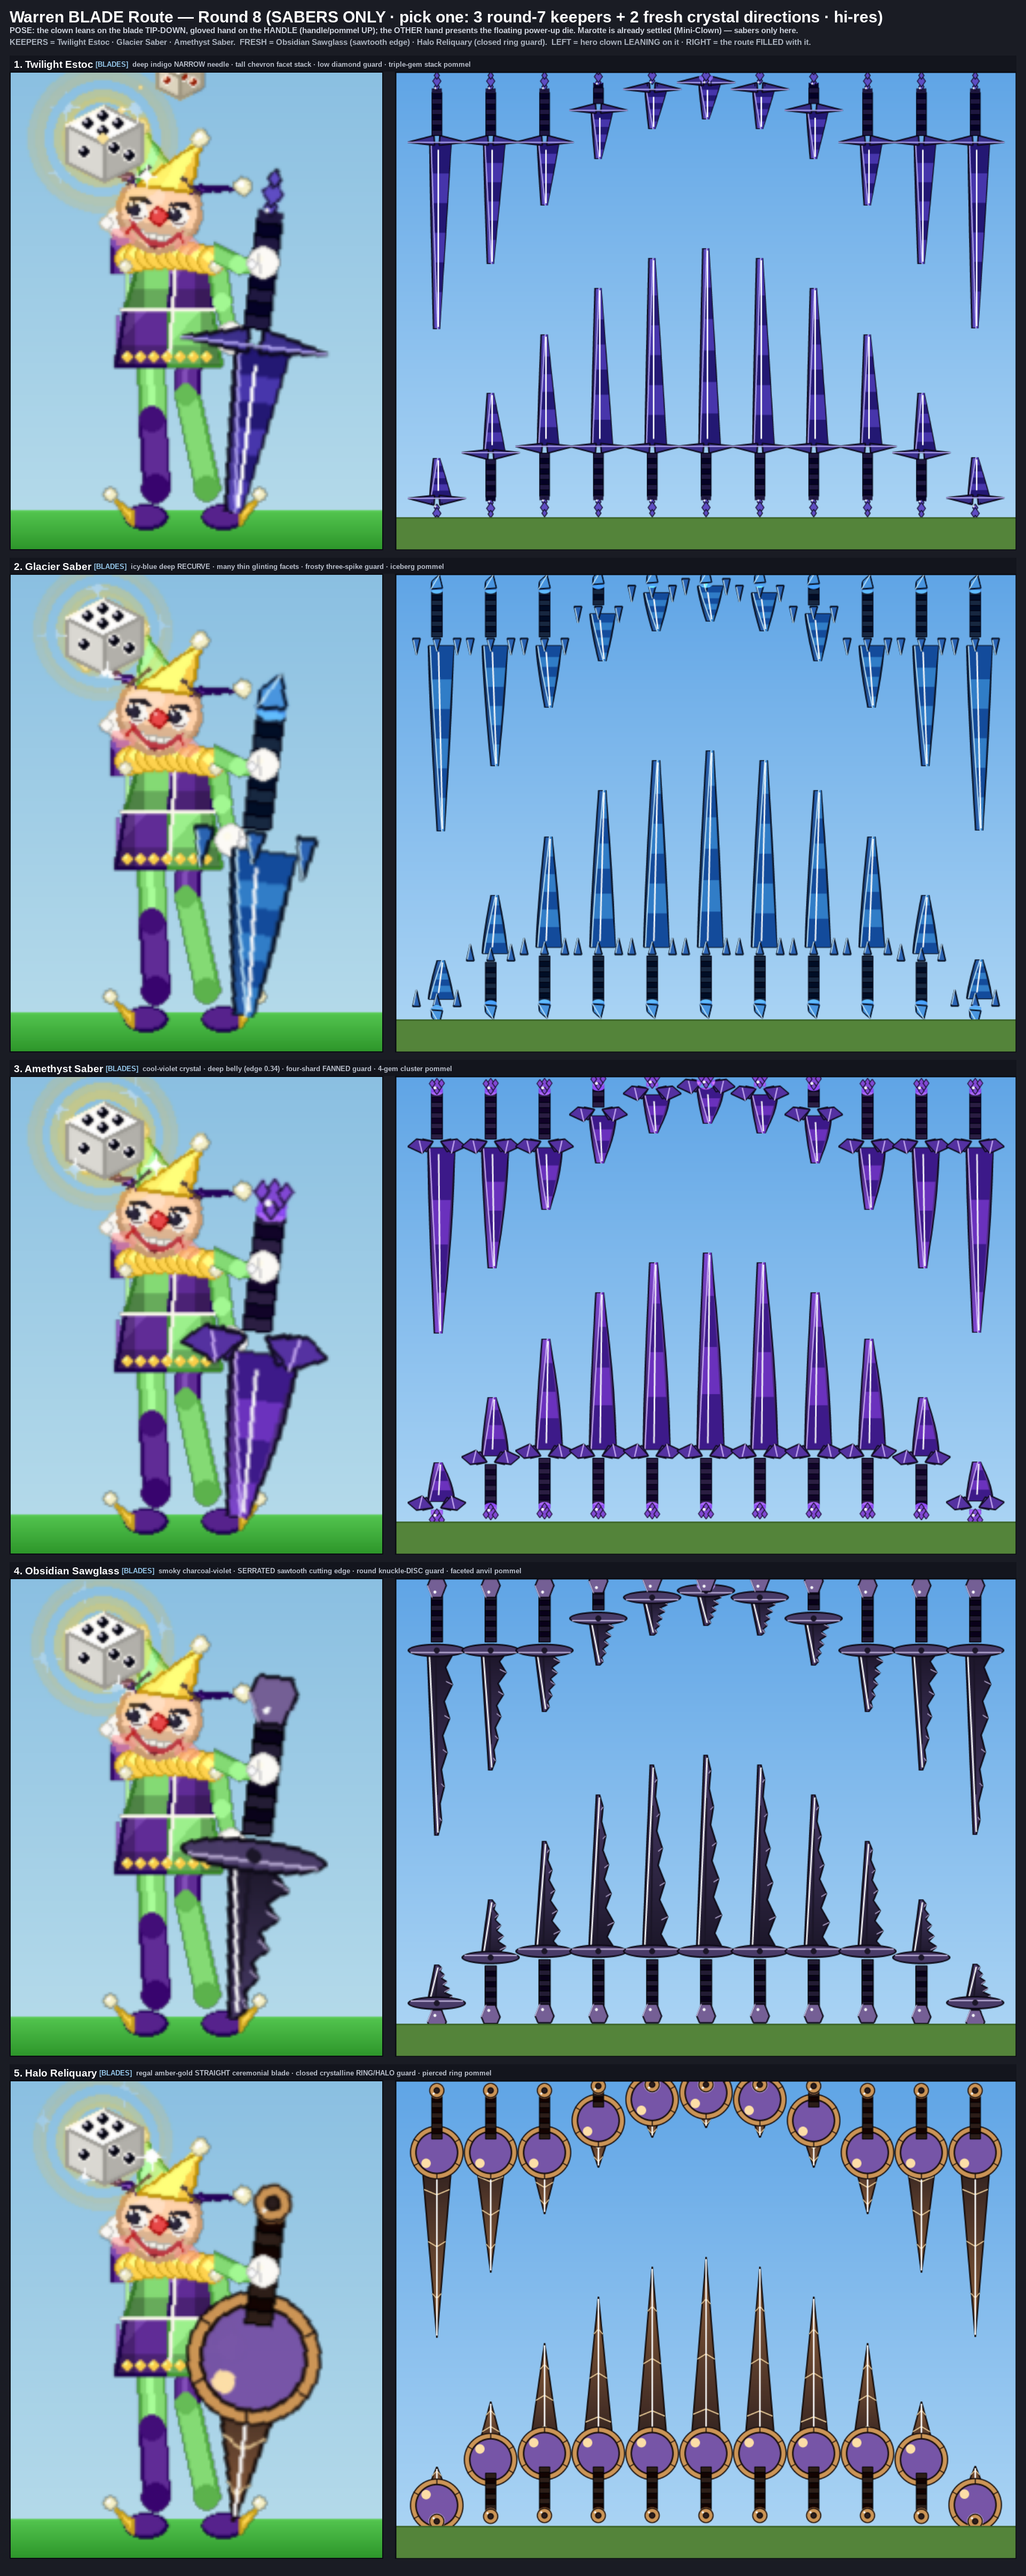
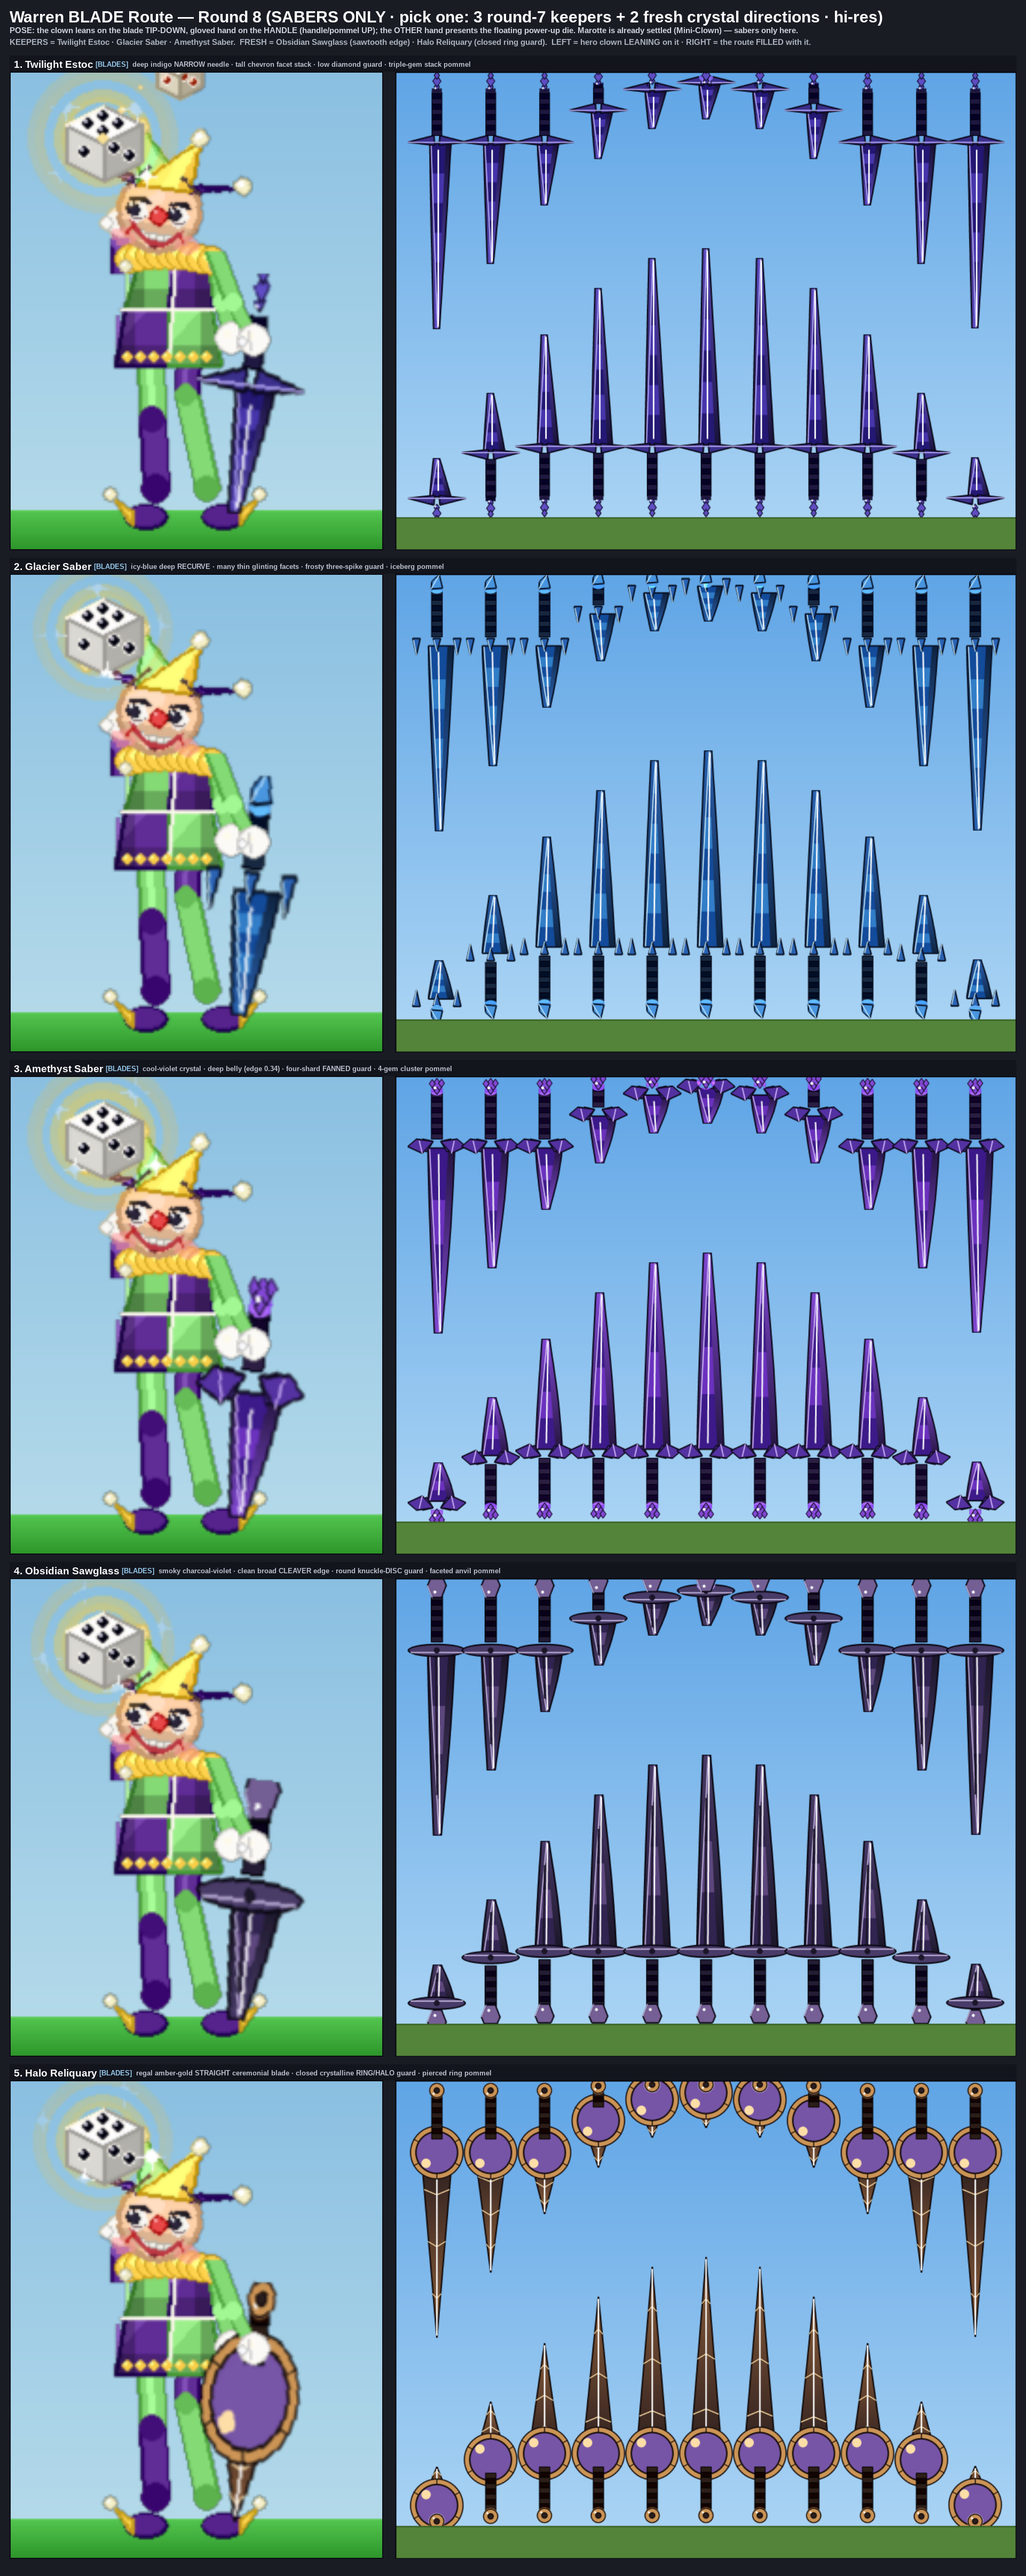
Warren sabers: sharp edges + proportionate hero hold
Fixes two defects on the saber options sheet (round_8_sabers.png).

Sharp edges: the facet inset in _xtal_facets was keyed to a few supersample pixels and
collapsed to sub-pixel after the route downscale, re-stepping the silhouette. Re-key the
inset to blade width (edge_in = max(2*ss, hw*0.14), outer vertices pulled to w*0.78) so
facets stay strictly internal shading at route scale and the body's clean outer outline
reads as one sharp edge to a fine tip on every variant. De-serrate Obsidian Sawglass: the
sawtooth edge is dropped for a clean broad cleaver (single swept edge via _curved_body),
keeping its smoky-charcoal palette, knuckle-disc guard and anvil pommel. No blade widened
— route gap and all <140 day-sky body lumas preserved.

Proportion: the held hero blade was 184px (~72% of clown height) and towered over the
head. Drop blade prop_px to 128 (~48%) and add a hero-only w_scale (0.74 for blades) to
_grounded_prop_surface so the held sword slims without touching the route obstacle width;
the grip now lands at hip height with the tip on the ground and the hand on the hilt.
Marotte sizing unchanged; route panels untouched; pytest green.

diff --git a/tools/render_warren_sword.py b/tools/render_warren_sword.py
@@ -1005,11 +1005,26 @@ def sword_11(surf, bw, bh, ss):
 #  DK keyline) so the gap-facing TIP stays a hard dark→bright break (GATE 1).
 # ─────────────────────────────────────────────────────────────────────────────
 
-def _xtal_facets(surf, cx, tip_y, base_y, hw, cuts, tones, hi, *, lean=0.22, ss=1):
+def _xtal_facets(surf, cx, tip_y, base_y, hw, cuts, tones, hi, *, lean=0.22, ss=1,
+                 body=None, outline=None, ow=2):
     """Stack angular crystal facets up a curved blade — the shared faceting core
     the variants tune (cut count, tones, lateral lean). A bright crystalline ridge
-    runs to the apex so the tip reads as a hard lit edge against the gap."""
+    runs to the apex so the tip reads as a hard lit edge against the gap.
+
+    The facets are strictly INTERNAL shading: every outer (cutting-edge-side)
+    vertex is pulled a couple of px INSIDE the body boundary so the faceting never
+    touches or steps the silhouette — at route scale a facet landing on the edge
+    rasterises into a notched/stepped outline, which reads as a broken (not sharp)
+    blade. To guarantee one clean razor edge the caller passes the body polygon +
+    its outline colour so the body's continuous outline is re-stroked LAST, on top
+    of the facets, restoring a single smooth dark→bright break to the fine tip."""
     span = base_y - tip_y
+    # Outer vertices are scaled in AND pulled a margin inside the edge so the
+    # faceting stays internal regardless of how far the body belly swells. The
+    # margin is keyed to BLADE WIDTH (not just SS px) so the gap survives the
+    # downscale to ~30-40px route width — a few SS px of inset collapses to a
+    # sub-pixel after smoothscale and re-steps the silhouette.
+    edge_in = max(2.0 * ss, hw * 0.14)
     for i in range(len(cuts) - 1):
         y0 = base_y - span * cuts[i]
         y1 = base_y - span * cuts[i + 1]
@@ -1017,13 +1032,19 @@ def _xtal_facets(surf, cx, tip_y, base_y, hw, cuts, tones, hi, *, lean=0.22, ss=
         cx1 = cx + lean * hw * (cuts[i + 1] ** 1.3)
         w0 = hw * (1.0 - cuts[i] * 0.9)
         w1 = hw * (1.0 - cuts[i + 1] * 0.9)
+        ow0 = max(0.0, w0 * 0.78 - edge_in)
+        ow1 = max(0.0, w1 * 0.78 - edge_in)
         pygame.draw.polygon(surf, _shade_c(tones[i % len(tones)], -24),
-                            [(cx0 - w0 * 0.4, y0), (cx0 + w0, y0),
-                             (cx1 + w1, y1), (cx1 - w1 * 0.4, y1)])
+                            [(cx0 - w0 * 0.4, y0), (cx0 + ow0, y0),
+                             (cx1 + ow1, y1), (cx1 - w1 * 0.4, y1)])
         pygame.draw.line(surf, hi, (cx0 - w0 * 0.4, y0), (cx1 - w1 * 0.4, y1),
                          max(1, int(1.6 * ss)))
     pygame.draw.line(surf, (255, 255, 255), (cx + lean * hw, tip_y + int(3 * ss)),
                      (cx + hw * 0.1, base_y - int(8 * ss)), max(2, int(2.0 * ss)))
+    # Re-stroke the body's clean outer outline LAST so the silhouette is a single
+    # continuous edge converging to the fine sharp tip, not the facet steps.
+    if body is not None and outline is not None:
+        pygame.draw.polygon(surf, outline, body, max(1, ow))
 
 
 def _gem_cluster(surf, cx, py, pr, core, dk, hi, ss, gems):
@@ -1055,10 +1076,14 @@ def sword_11a(surf, bw, bh, ss):
     tip_y, base_y, gy, gtop, gbot, py = _layout(bh, ss)
     hw = int(_blade_hw(ss) * 1.04)
     ghw = _guard_hw(ss)
-    body, bwid = _curved_body(cx, tip_y, base_y, hw, bow=0.20, edge=0.34)
-    _vgrad_poly(surf, body, A_A, A_CORE, outline=A_DK, ow=max(2, int(2.0 * ss)))
+    # A gentler belly (edge 0.26) keeps the cutting edge a single smooth arc rather
+    # than a bulging belly that reads wavy beside the internal facets at route scale.
+    body, bwid = _curved_body(cx, tip_y, base_y, hw, bow=0.20, edge=0.26)
+    ow = max(2, int(2.0 * ss))
+    _vgrad_poly(surf, body, A_A, A_CORE, outline=A_DK, ow=ow)
     _xtal_facets(surf, cx, tip_y, base_y, hw, [0.0, 0.28, 0.52, 0.78, 1.0],
-                 [A_B, A_A, A_B, A_A], A_HI, lean=0.20, ss=ss)
+                 [A_B, A_A, A_B, A_A], A_HI, lean=0.20, ss=ss,
+                 body=body, outline=A_DK, ow=ow)
     # Four-shard FANNED guard (more angular spread than the round-6 two-shard).
     for sgn in (-1, 1):
         for k, sc in ((0.55, 0.7), (1.0, 1.0)):
@@ -1124,14 +1149,19 @@ def sword_11c(surf, bw, bh, ss):
     tip_y, base_y, gy, gtop, gbot, py = _layout(bh, ss)
     hw = int(_blade_hw(ss) * 0.98)
     ghw = _guard_hw(ss)
-    body, bwid = _curved_body(cx, tip_y, base_y, hw, bow=0.36, edge=0.20)
+    # A calmer recurve (bow 0.26) so the long edge stays one smooth sweep; the high
+    # bow plus a thin facet stack used to step the silhouette into a wavy edge.
+    body, bwid = _curved_body(cx, tip_y, base_y, hw, bow=0.26, edge=0.14)
+    ow = max(2, int(2.0 * ss))
     # Body keyed off the MID tone so the icy-blue fill clears the 140 luma gate;
     # the bright C_A / white ridge stays on the facet edges only.
-    _vgrad_poly(surf, body, C_B, C_CORE, outline=C_DK, ow=max(2, int(2.0 * ss)))
-    # Many thin facets so the long recurve glints like a glacier shard.
+    _vgrad_poly(surf, body, C_B, C_CORE, outline=C_DK, ow=ow)
+    # Many thin INTERNAL facets so the long recurve glints like a glacier shard
+    # without breaking the clean edge; lean trimmed to keep them inside the body.
     _xtal_facets(surf, cx, tip_y, base_y, hw,
                  [0.0, 0.18, 0.34, 0.50, 0.66, 0.82, 1.0],
-                 [C_B, C_A], C_HI, lean=0.34, ss=ss)
+                 [C_B, C_A], C_HI, lean=0.24, ss=ss,
+                 body=body, outline=C_DK, ow=ow)
     # Three upright spike shards (a frosty crown guard).
     for sgn, sc in ((-1, 1.0), (0, 0.6), (1, 1.0)):
         bx = cx + sgn * ghw * 0.7
@@ -1201,10 +1231,12 @@ def sword_11e(surf, bw, bh, ss):
     hw = int(_blade_hw(ss) * 0.82)        # narrow needle
     ghw = _guard_hw(ss)
     body, bwid = _curved_body(cx, tip_y, base_y, hw, bow=0.10, edge=0.06)
-    _vgrad_poly(surf, body, E_A, E_CORE, outline=E_DK, ow=max(2, int(2.0 * ss)))
+    ow = max(2, int(2.0 * ss))
+    _vgrad_poly(surf, body, E_A, E_CORE, outline=E_DK, ow=ow)
     _xtal_facets(surf, cx, tip_y, base_y, hw,
                  [0.0, 0.16, 0.32, 0.48, 0.64, 0.80, 1.0],
-                 [E_B, E_A], E_HI, lean=0.10, ss=ss)
+                 [E_B, E_A], E_HI, lean=0.10, ss=ss,
+                 body=body, outline=E_DK, ow=ow)
     # A low diamond guard (two flat shards meeting in a point each side).
     for sgn in (-1, 1):
         shard = [(cx + sgn * int(3 * ss), gy - int(2 * ss)),
@@ -1385,10 +1417,10 @@ def sword_11g(surf, bw, bh, ss):
 #  wing, collar nor geode. 2-3 bold beats each, no fizz at route scale.
 # ─────────────────────────────────────────────────────────────────────────────
 
-# ---- 11h. Obsidian Sawglass (smoky charcoal-violet, SERRATED sawtooth edge) --
-# A single-edge crystal cleaver whose CUTTING edge is a row of bold SAWTOOTH
-# crystal teeth (a serrated silhouette tried nowhere in 11a-g, which are all
-# smooth curved/straight/leaf bodies) climbing to one hard apex. The guard is a
+# ---- 11h. Obsidian Cleaver (smoky charcoal-violet, clean broad cleaver edge) --
+# A single-edge crystal CLEAVER with a clean broad swept cutting edge sweeping to
+# one hard apex (de-serrated: the old sawtooth read as a broken edge at route
+# scale; a sharp cleaver keeps the identity without the notches). The guard is a
 # round knuckle-DISC plate (a flat pierced crystal disc — a guard form distinct
 # from the shard-fans / spikes / wings / rings), the pommel a heavy faceted ANVIL
 # wedge. Smoky charcoal-violet keeps it the darkest, moodiest of the set.
@@ -1401,39 +1433,22 @@ def sword_11h(surf, bw, bh, ss):
     hw = int(_blade_hw(ss) * 1.06)
     ghw = _guard_hw(ss)
     span = base_y - tip_y
-    # A near-straight back spine; the cutting (right) edge is built as a row of a
-    # FEW big sawtooth teeth (kept bold, low-frequency so it doesn't fizz at route
-    # scale) that step inward as the blade tapers to one hard apex at the gap end.
-    back = []
-    n = 10
-    for i in range(n + 1):
-        t = i / n
-        y = base_y - span * t
-        back.append((cx - hw * (0.52 - t * 0.42), y))
-    # Sawtooth cutting edge: alternate an OUT crest and an IN trough, five teeth.
-    teeth = []
-    n_teeth = 5
-    for i in range(n_teeth * 2 + 1):
-        t = i / (n_teeth * 2)
-        y = base_y - span * (t * 0.92)
-        env = hw * (1.0 - t * 0.74)         # the overall taper envelope
-        crest = env if i % 2 == 0 else env * 0.52
-        teeth.append((cx + crest, y))
-    body = back + [(cx + hw * 0.06, tip_y)] + list(reversed(teeth))
-    _vgrad_poly(surf, body, H_B, H_CORE, outline=H_DK, ow=max(2, int(2.2 * ss)))
-    # A dark fuller groove + a bright lit ridge to the apex (2 bold beats); the
-    # ridge keeps the tip a hard lit edge against the gap (GATE 1).
+    # A broad single-edge cleaver: a calm belly (edge 0.22) sweeping to one hard
+    # apex so the outer silhouette is a SINGLE smooth sharp edge, not a row of
+    # teeth that rasterised into notches at route scale.
+    body, bwid = _curved_body(cx, tip_y, base_y, hw, bow=0.16, edge=0.22)
+    ow = max(2, int(2.2 * ss))
+    _vgrad_poly(surf, body, H_B, H_CORE, outline=H_DK, ow=ow)
+    # Internal-only crystal facets (outer vertices inset inside the body boundary)
+    # so the cleaver glints like cut glass without stepping the sharp edge; the
+    # body outline is re-stroked LAST to keep one clean break to the fine tip.
+    _xtal_facets(surf, cx, tip_y, base_y, hw, [0.0, 0.30, 0.56, 0.80, 1.0],
+                 [H_B, H_A, H_B, H_A], H_HI, lean=0.16, ss=ss,
+                 body=body, outline=H_DK, ow=ow)
+    # A dark fuller groove + a bright lit ridge to the apex (the 2 internal beats);
+    # the ridge keeps the tip a hard lit edge against the gap (GATE 1).
     pygame.draw.line(surf, H_CORE, (cx - hw * 0.06, base_y - int(8 * ss)),
                      (cx + hw * 0.02, tip_y + int(span * 0.22)), max(2, int(2.4 * ss)))
-    pygame.draw.line(surf, (255, 255, 255), (cx - hw * 0.42, base_y),
-                     (cx + hw * 0.06, tip_y + int(4 * ss)), max(2, int(2.0 * ss)))
-    # A hot glint on each tooth crest so the serration sparkles like cut glass.
-    for i in range(0, n_teeth * 2 + 1, 2):
-        t = i / (n_teeth * 2)
-        y = base_y - span * (t * 0.92)
-        env = hw * (1.0 - t * 0.74)
-        pygame.draw.line(surf, H_HI, (cx + env, y),
-                         (cx + env * 0.6, y + int(4 * ss)), max(1, int(1.4 * ss)))
     # Round knuckle-DISC guard: a flat pierced crystal plate edge-on (a squat
     # faceted oval) — a guard architecture not used by the other variants.
     rect = pygame.Rect(int(cx - ghw), int(gy - 9 * ss), int(ghw * 2), int(18 * ss))
@@ -2442,7 +2457,7 @@ SABER_VERSIONS = [
      "cool-violet crystal · deep belly (edge 0.34) · four-shard FANNED guard · 4-gem cluster pommel",
      sword_11a, "blade"),
     ("Obsidian Sawglass", "BLADES",
-     "smoky charcoal-violet · SERRATED sawtooth cutting edge · round knuckle-DISC guard · faceted anvil pommel",
+     "smoky charcoal-violet · clean broad CLEAVER edge · round knuckle-DISC guard · faceted anvil pommel",
      sword_11h, "blade"),
     ("Halo Reliquary", "BLADES",
      "regal amber-gold STRAIGHT ceremonial blade · closed crystalline RING/HALO guard · pierced ring pommel",
@@ -2528,16 +2543,20 @@ _HIP_DX = -6
 _HIP_OFF = 84
 
 
-def _grounded_prop_surface(draw_fn, prop_px, ss):
+def _grounded_prop_surface(draw_fn, prop_px, ss, *, w_scale=1.0):
     """Render ONE complete prop (gap-facing end UP, resting end at the box
     bottom) into its own tight box at hero scale, for the clown to LEAN on with
     the prop's bottom tip planted on the ground. The held/leaned LEFT version can
     carry finer detail than the tiled route version (brief: held > tiled).
+
+    `w_scale` narrows ONLY the hero output width (the held prop) so a shortened
+    blade stays slender beside the figure; the ROUTE tiles render through
+    `_render_obstacle` at the full column width and are untouched by this.
     Returns a 1x surface + its (w, h)."""
     H = prop_px
     surf, bw, bh = _box(H, ss)
     draw_fn(surf, bw, bh, ss)
-    out_w = PIPE_W + 2 * OVERHANG
+    out_w = max(1, int((PIPE_W + 2 * OVERHANG) * w_scale))
     return pygame.transform.smoothscale(surf, (out_w, H)), out_w, H
 
 
@@ -2596,11 +2615,17 @@ def render_clown_panel(draw_fn, idx, hold="staff"):
     # (the planted tip eats length the handle must clear the hip); the marotte is
     # shorter so the bauble sits near head height with the hand below it.
     if hold == "blade":
-        prop_px = 184                  # blade tip on ground, handle reaching the hip
+        prop_px = 128                  # ~48% of the clown's display height: tip on
+                                       # the ground, hilt at the hand near the hip,
+                                       # no longer towering over the head
     else:
         prop_px = 150                  # bauble near head height, foot on the ground
     p_ss = 6                           # finer hero source than the route tiles
-    prop, p_w, p_h = _grounded_prop_surface(draw_fn, prop_px, p_ss)
+    # Shortening the blade alone leaves it relatively stubby (output width is fixed
+    # to the column), so the hero held blade is slimmed; the route width is set in
+    # _render_obstacle and is NOT affected by this hero-only scale.
+    w_scale = 0.74 if hold == "blade" else 1.0
+    prop, p_w, p_h = _grounded_prop_surface(draw_fn, prop_px, p_ss, w_scale=w_scale)
     # Blades flip so the TIP (authored at the top) ends DOWN on the ground and the
     # handle/pommel (authored at the bottom) points UP into the gloved hand.
     if hold == "blade":
